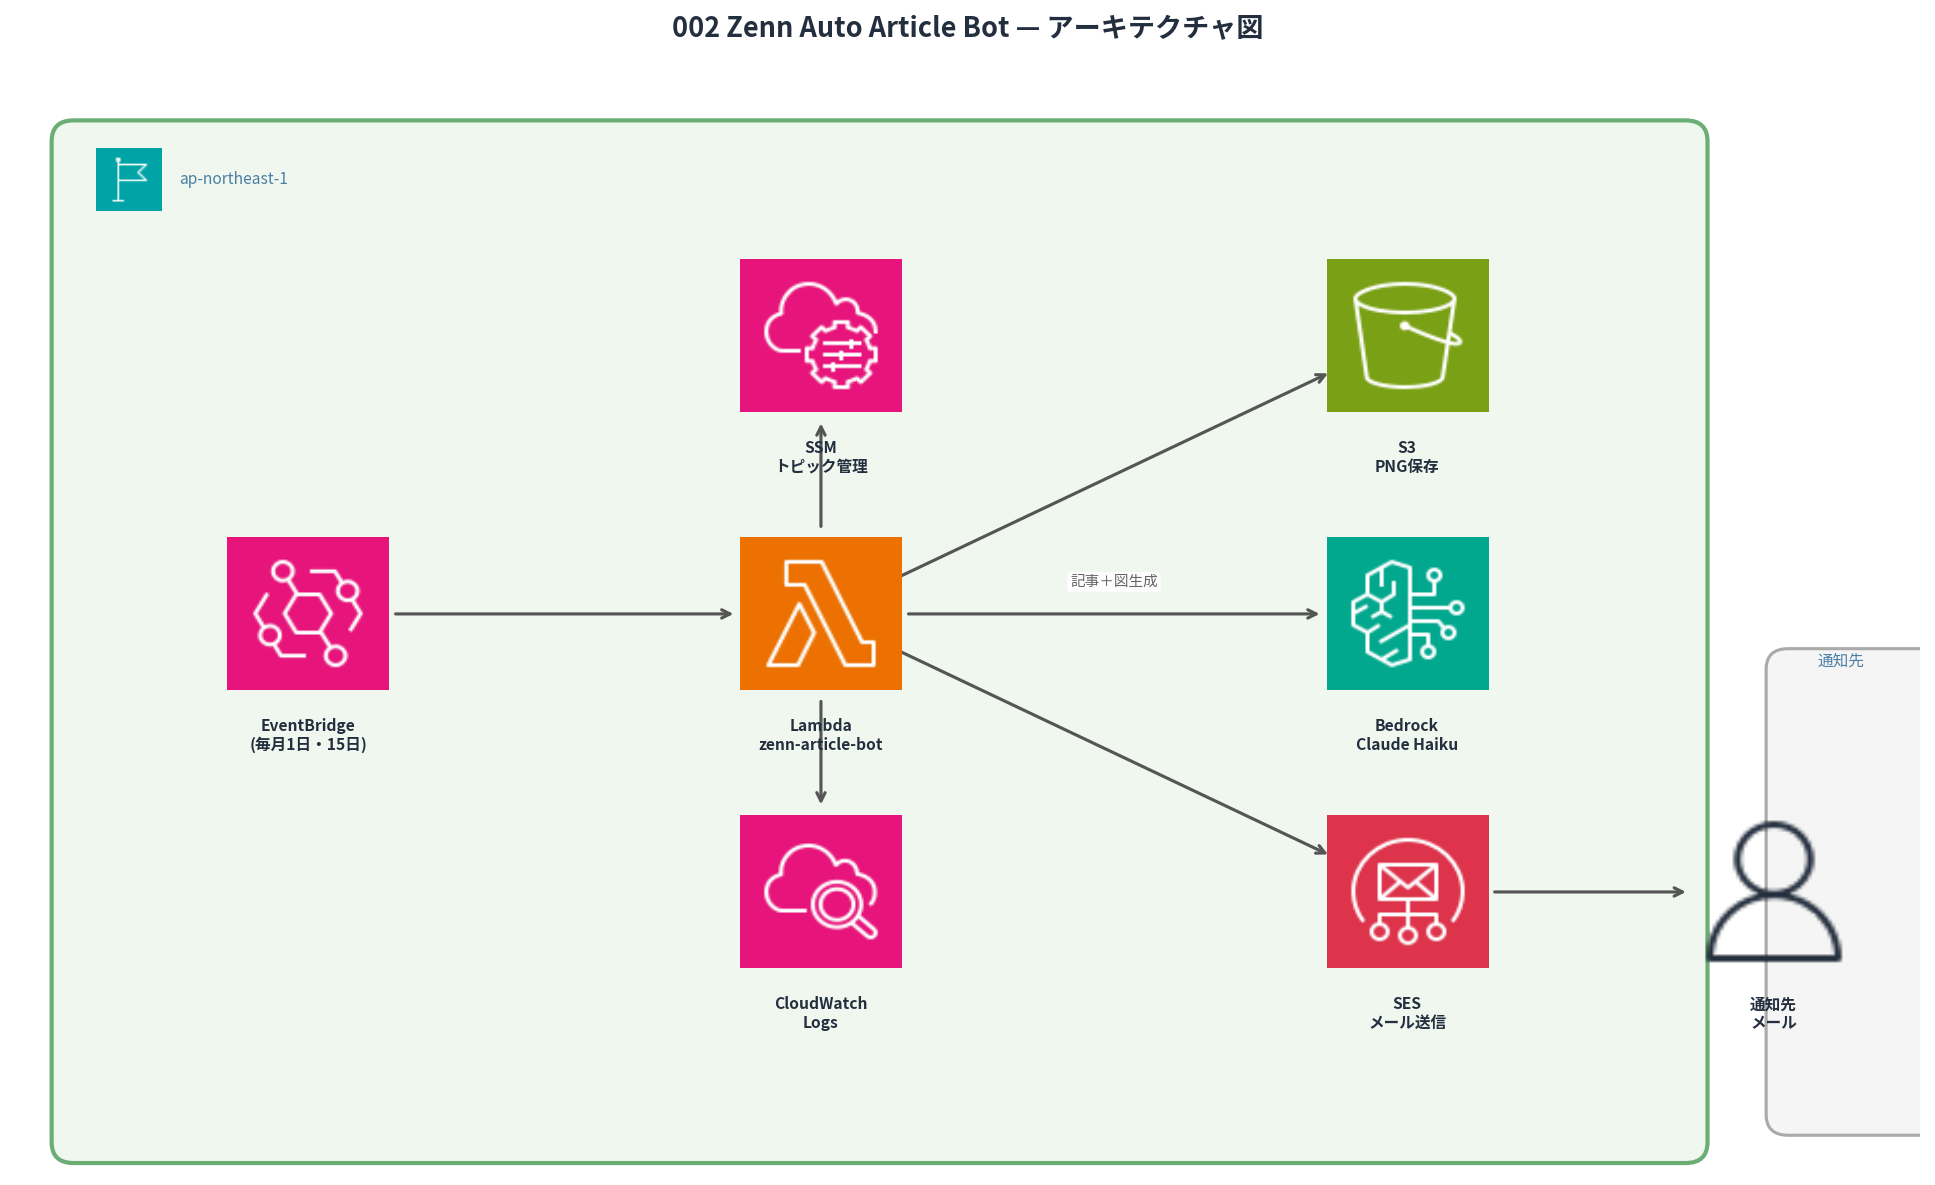
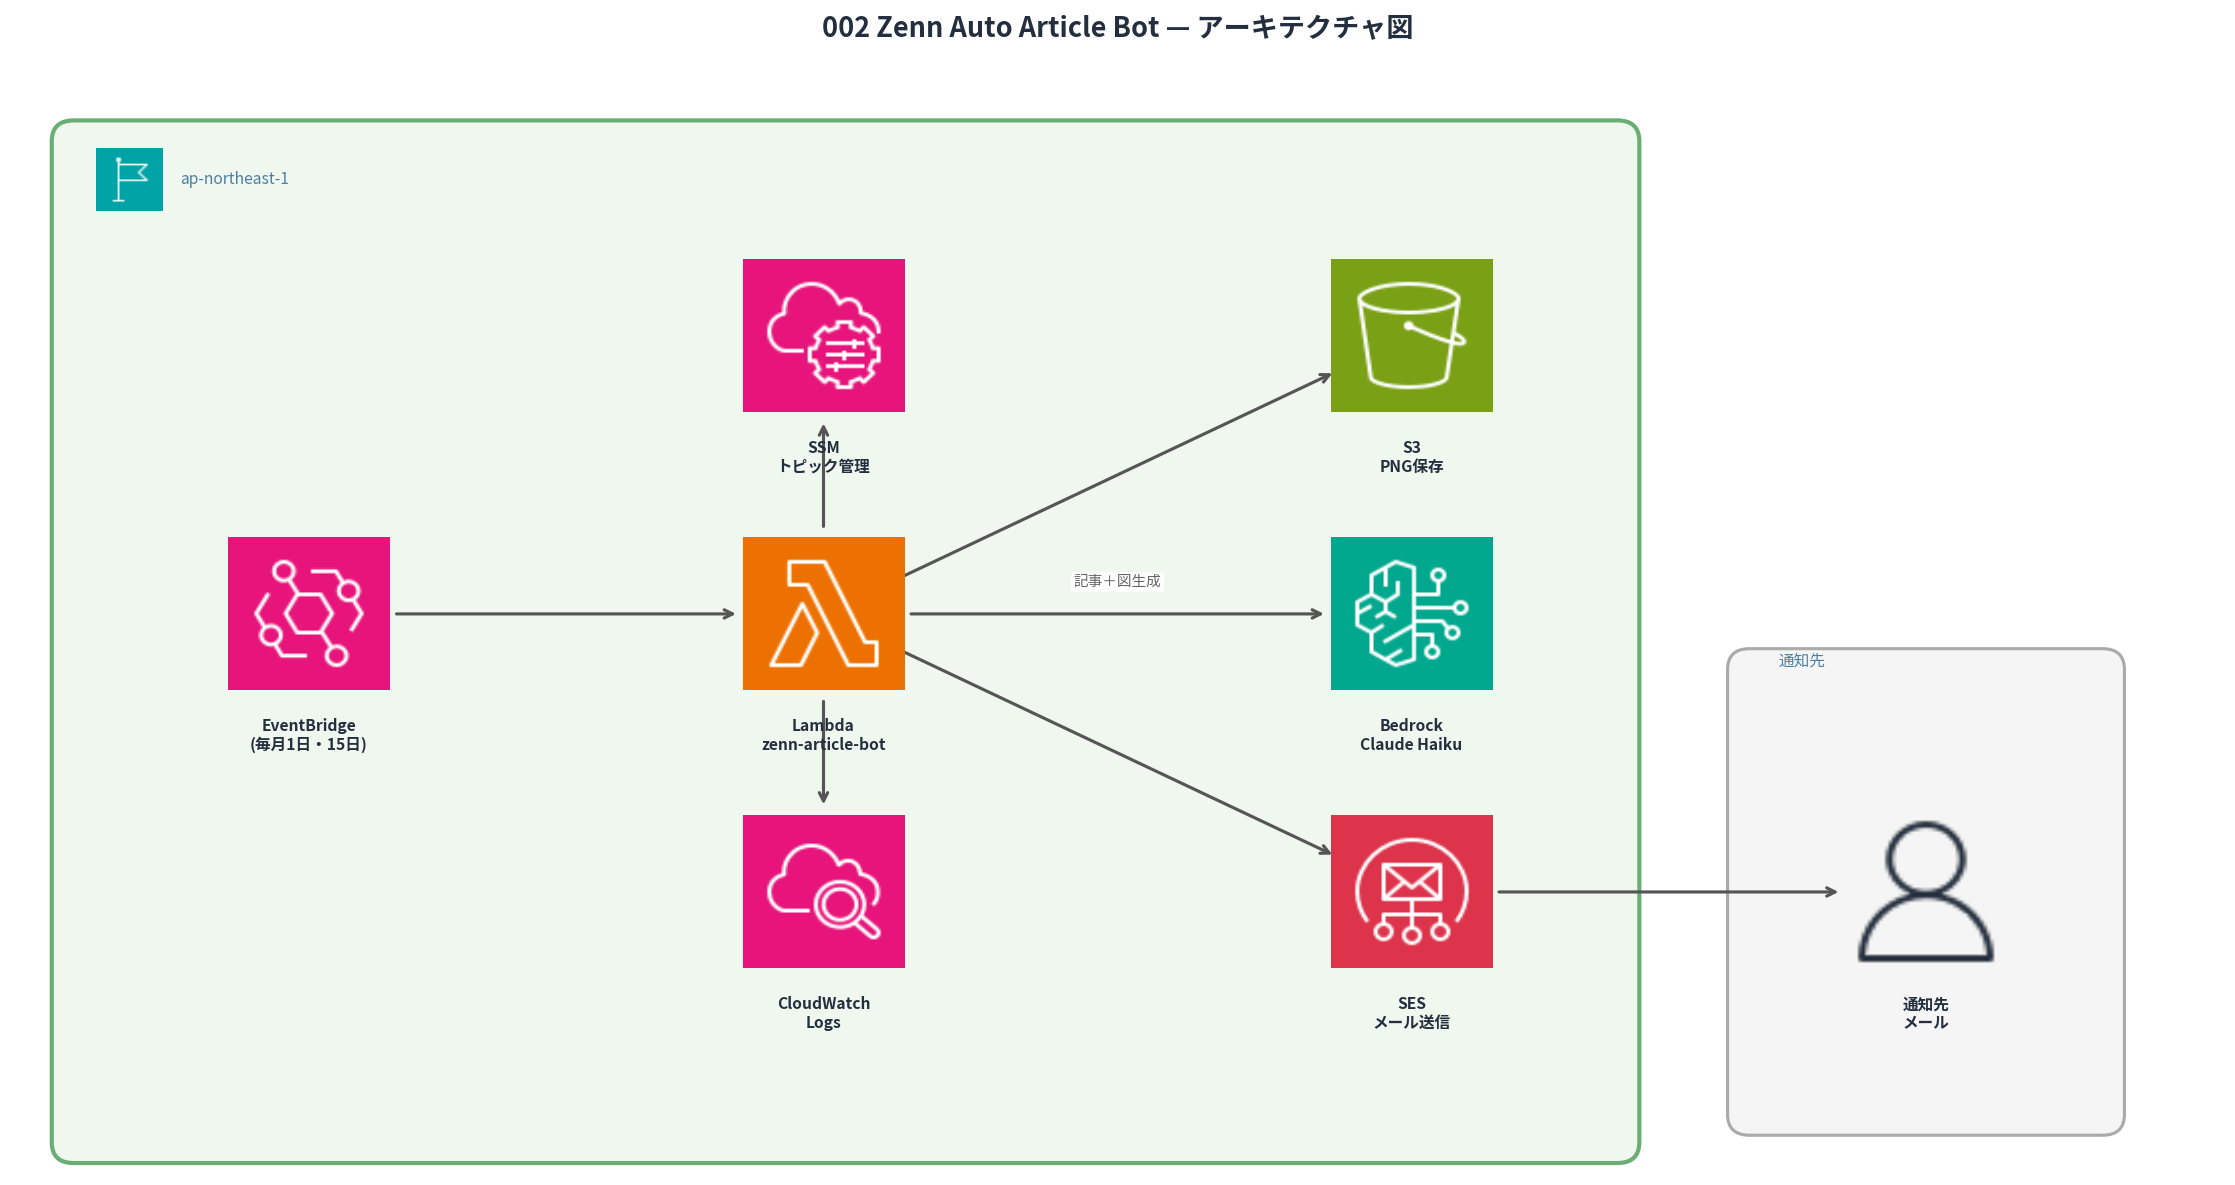
auto-sync: 2026-05-25 09:41

diff --git a/002_zenn-article-bot/generate_diagram.py b/002_zenn-article-bot/generate_diagram.py
@@ -55,36 +55,36 @@ def draw():
     HALF = 0.55
 
     nodes = [
-        {'id': 'eb',      'icon': 'eventbridge', 'label': 'EventBridge\n(毎月1日・15日)',      'x': 2.0,  'y': 4.0},
-        {'id': 'lambda',  'icon': 'lambda',      'label': 'Lambda\nzenn-article-bot',          'x': 5.5,  'y': 4.0},
-        {'id': 'bedrock', 'icon': 'bedrock',     'label': 'Bedrock\nClaude Haiku',             'x': 9.5,  'y': 4.0},
-        {'id': 'ssm',     'icon': 'ssm',         'label': 'SSM\nトピック管理',                 'x': 5.5,  'y': 6.0},
-        {'id': 's3',      'icon': 's3',          'label': 'S3\nPNG保存',                      'x': 9.5,  'y': 6.0},
-        {'id': 'cw',      'icon': 'cloudwatch',  'label': 'CloudWatch\nLogs',                  'x': 5.5,  'y': 2.0},
-        {'id': 'ses',     'icon': 'ses',         'label': 'SES\nメール送信',                   'x': 9.5,  'y': 2.0},
-        {'id': 'user',    'icon': 'user',        'label': '通知先\nメール',                    'x': 12.0, 'y': 2.0},
+        {'id': 'eb',      'icon': 'eventbridge', 'label': 'EventBridge\n(毎月1日・15日)', 'x': 2.0,  'y': 4.0},
+        {'id': 'lambda',  'icon': 'lambda',      'label': 'Lambda\nzenn-article-bot',     'x': 5.5,  'y': 4.0},
+        {'id': 'bedrock', 'icon': 'bedrock',     'label': 'Bedrock\nClaude Haiku',        'x': 9.5,  'y': 4.0},
+        {'id': 'ssm',     'icon': 'ssm',         'label': 'SSM\nトピック管理',            'x': 5.5,  'y': 6.0},
+        {'id': 's3',      'icon': 's3',          'label': 'S3\nPNG保存',                 'x': 9.5,  'y': 6.0},
+        {'id': 'cw',      'icon': 'cloudwatch',  'label': 'CloudWatch\nLogs',             'x': 5.5,  'y': 2.0},
+        {'id': 'ses',     'icon': 'ses',         'label': 'SES\nメール送信',              'x': 9.5,  'y': 2.0},
+        {'id': 'user',    'icon': 'user',        'label': '通知先\nメール',               'x': 13.0, 'y': 2.0},
     ]
 
     edges = [
-        ('eb',      'lambda',  ''),
-        ('lambda',  'bedrock', '記事＋図生成'),
-        ('lambda',  'ssm',     ''),
-        ('lambda',  's3',      ''),
-        ('lambda',  'cw',      ''),
-        ('lambda',  'ses',     ''),
-        ('ses',     'user',    ''),
+        ('eb',     'lambda',  ''),
+        ('lambda', 'bedrock', '記事＋図生成'),
+        ('lambda', 'ssm',     ''),
+        ('lambda', 's3',      ''),
+        ('lambda', 'cw',      ''),
+        ('lambda', 'ses',     ''),
+        ('ses',    'user',    ''),
     ]
 
     clusters = [
         {
             'label': 'ap-northeast-1', 'icon': 'region',
-            'x': 0.4, 'y': 0.2, 'w': 11.0, 'h': 7.2,
+            'x': 0.4, 'y': 0.2, 'w': 10.5, 'h': 7.2,
             'color': '#F0F7EE', 'edgecolor': '#6BAE75',
             'linestyle': '-', 'linewidth': 2.0,
         },
         {
             'label': '通知先', 'icon': None,
-            'x': 10.8, 'y': 0.8, 'w': 2.4, 'h': 2.8,
+            'x': 11.8, 'y': 0.8, 'w': 2.4, 'h': 2.8,
             'color': '#F5F5F5', 'edgecolor': '#AAAAAA',
             'linestyle': '-', 'linewidth': 1.5,
         },
@@ -133,8 +133,8 @@ def draw():
         if not moved:
             break
 
-    fig, ax = plt.subplots(figsize=(13, 8), dpi=150)
-    ax.set_xlim(0, 13)
+    fig, ax = plt.subplots(figsize=(15, 8), dpi=150)
+    ax.set_xlim(0, 15)
     ax.set_ylim(0, 8)
     ax.set_aspect('equal')
     ax.axis('off')
